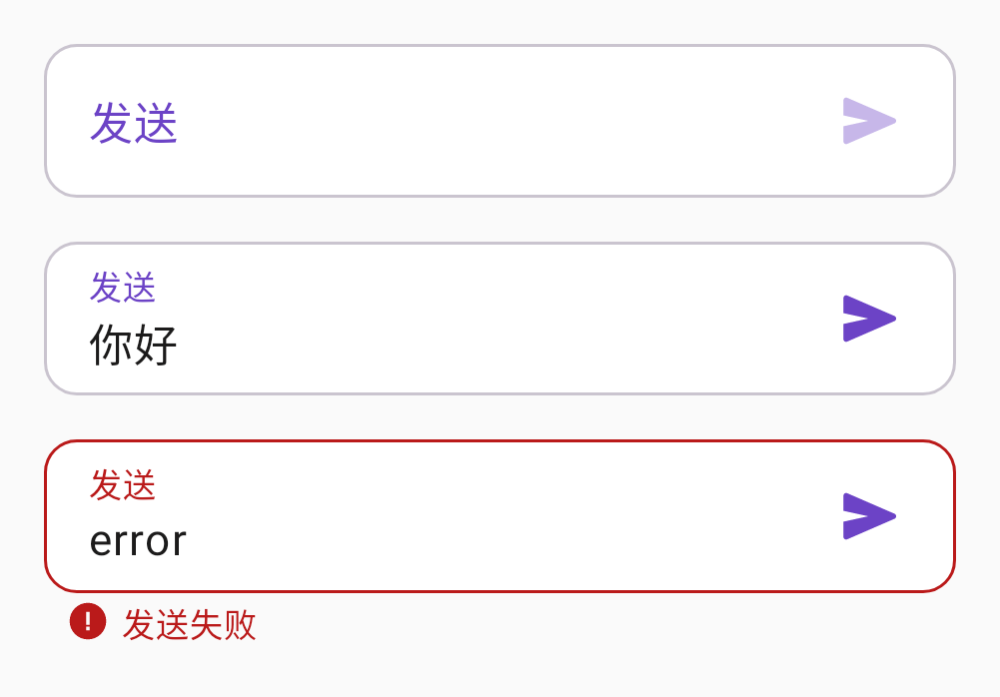
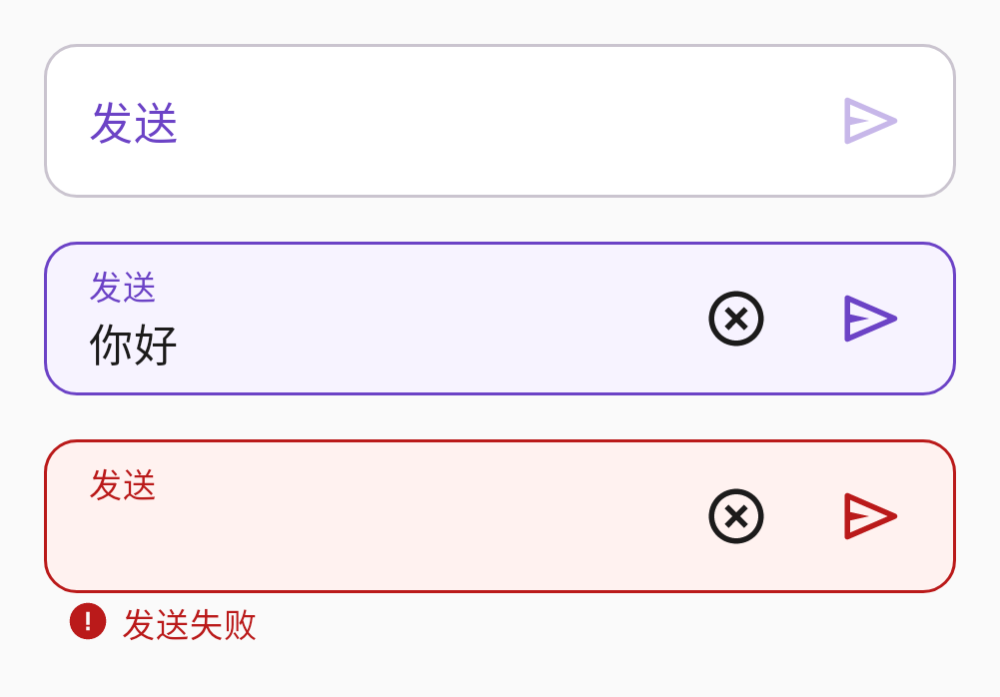
TextInput 清除与发送：聚焦显示 ×，描边发送，错误态红色

diff --git a/catalog/src/main/java/com/genev4/catalog/docs/DocsDemos.kt b/catalog/src/main/java/com/genev4/catalog/docs/DocsDemos.kt
@@ -8,6 +8,9 @@ import androidx.compose.foundation.layout.FlowRow
 import androidx.compose.foundation.layout.Row
 import androidx.compose.foundation.layout.WindowInsets
 import androidx.compose.foundation.background
+import androidx.compose.foundation.interaction.FocusInteraction
+import androidx.compose.foundation.interaction.Interaction
+import androidx.compose.foundation.interaction.MutableInteractionSource
 import androidx.compose.foundation.layout.fillMaxSize
 import androidx.compose.foundation.layout.fillMaxWidth
 import androidx.compose.foundation.layout.height
@@ -17,10 +20,15 @@ import androidx.compose.foundation.rememberScrollState
 import androidx.compose.foundation.text.input.rememberTextFieldState
 import androidx.compose.foundation.verticalScroll
 import androidx.compose.runtime.Composable
+import androidx.compose.runtime.remember
 import androidx.compose.ui.Alignment
 import androidx.compose.ui.Modifier
 import androidx.compose.ui.state.ToggleableState
 import androidx.compose.ui.unit.dp
+import kotlinx.coroutines.channels.BufferOverflow
+import kotlinx.coroutines.flow.Flow
+import kotlinx.coroutines.flow.MutableSharedFlow
+import kotlinx.coroutines.flow.asSharedFlow
 import com.genev4.AiInput
 import com.genev4.AiInputFileAttachment
 import com.genev4.AiInputLayout
@@ -280,8 +288,33 @@ fun TextFieldDocsDemo(modifier: Modifier = Modifier) {
     }
 }
 
+/** Seeds a focused interaction immediately so Paparazzi captures the Active / clear chrome. */
+@Composable
+private fun rememberDocsFocusedInteraction(): MutableInteractionSource =
+    remember {
+        object : MutableInteractionSource {
+            private val focus = FocusInteraction.Focus()
+            private val flow =
+                MutableSharedFlow<Interaction>(
+                    replay = 1,
+                    extraBufferCapacity = 16,
+                    onBufferOverflow = BufferOverflow.DROP_OLDEST,
+                ).also { it.tryEmit(focus) }
+
+            override val interactions: Flow<Interaction> = flow.asSharedFlow()
+
+            override suspend fun emit(interaction: Interaction) {
+                flow.emit(interaction)
+            }
+
+            override fun tryEmit(interaction: Interaction): Boolean = flow.tryEmit(interaction)
+        }
+    }
+
 @Composable
 fun TextInputDocsDemo(modifier: Modifier = Modifier) {
+    val focused = rememberDocsFocusedInteraction()
+    val focusedError = rememberDocsFocusedInteraction()
     Column(
         modifier = modifier.padding(16.dp).width(332.dp),
         verticalArrangement = Arrangement.spacedBy(16.dp),
@@ -298,14 +331,16 @@ fun TextInputDocsDemo(modifier: Modifier = Modifier) {
             value = "杭州",
             onValueChange = {},
             label = "城市",
+            interactionSource = focused,
             modifier = Modifier.fillMaxWidth(),
         )
         TextInput(
-            value = "error",
+            value = "",
             onValueChange = {},
             label = "姓名",
             isError = true,
             supportingText = "校验失败提示",
+            interactionSource = focusedError,
             modifier = Modifier.fillMaxWidth(),
         )
         TextInput(
@@ -365,6 +400,8 @@ fun TextAreaDocsDemo(modifier: Modifier = Modifier) {
 
 @Composable
 fun ActionInputDocsDemo(modifier: Modifier = Modifier) {
+    val focused = rememberDocsFocusedInteraction()
+    val focusedError = rememberDocsFocusedInteraction()
     Column(
         modifier = modifier.padding(16.dp).width(332.dp),
         verticalArrangement = Arrangement.spacedBy(16.dp),
@@ -381,15 +418,17 @@ fun ActionInputDocsDemo(modifier: Modifier = Modifier) {
             onValueChange = {},
             onAction = {},
             label = "发送",
+            interactionSource = focused,
             modifier = Modifier.fillMaxWidth(),
         )
         ActionInput(
-            value = "error",
+            value = "",
             onValueChange = {},
             onAction = {},
             label = "发送",
             isError = true,
             supportingText = "发送失败",
+            interactionSource = focusedError,
             modifier = Modifier.fillMaxWidth(),
         )
     }

diff --git a/library/src/commonMain/kotlin/com/genev4/TextInput.kt b/library/src/commonMain/kotlin/com/genev4/TextInput.kt
@@ -328,7 +328,9 @@ private fun GeneInput(
             hovered -> PaletteTokens.Primary80.copy(alpha = HoverOverlayAlpha)
             else -> Color.Transparent
         }
-    val iconTint = if (isError) scheme.error else scheme.onSurface
+    val clearTint = scheme.onSurface
+    val trailingTint = if (isError) scheme.error else scheme.onSurface
+    val actionTint = if (isError) scheme.error else scheme.primary
     val shape = TextInputShape
     val bodyLarge = MaterialTheme.typography.bodyLarge
     val bodySmall = MaterialTheme.typography.bodySmall
@@ -420,7 +422,7 @@ private fun GeneInput(
                         TrailingIcon(
                             icon = TextInputIcons.Cancel,
                             contentDescription = "Clear",
-                            tint = iconTint,
+                            tint = clearTint,
                             onClick = {
                                 onValueChange("")
                                 onClear?.invoke()
@@ -432,7 +434,7 @@ private fun GeneInput(
                         TrailingIcon(
                             icon = if (expanded) TextInputIcons.ArrowDropUp else TextInputIcons.ArrowDropDown,
                             contentDescription = "Dropdown",
-                            tint = iconTint,
+                            tint = trailingTint,
                             onClick = onDropdownClick,
                             enabled = enabled,
                         )
@@ -441,10 +443,11 @@ private fun GeneInput(
                         TrailingIcon(
                             icon = TextInputIcons.Send,
                             contentDescription = "Send",
-                            tint = scheme.primary,
+                            tint = actionTint,
                             onClick = onAction,
                             enabled = enabled && actionEnabled,
-                            dimmed = enabled && !actionEnabled,
+                            // Empty + unfocused stays muted; Active keeps full color like the spec.
+                            dimmed = enabled && !actionEnabled && !focused,
                             buttonSize = ActionButtonSize,
                         )
                     }
@@ -572,8 +575,8 @@ private object TextInputIcons {
     }
     val Send: ImageVector by lazy {
         icon(
-            "Filled.Send",
-            "M4.39827 3.60715C4.27259 3.55257 4.13702 3.52441 4 3.52441C3.44772 3.52441 3 3.97213 3 4.52441V10V10.0275L12.0737 12L3 13.9726V14V19.4756C3 19.6127 3.02816 19.7482 3.08273 19.8739C3.30269 20.3805 3.89168 20.6129 4.39827 20.3929L21.6154 12.9173C21.8479 12.8163 22.0334 12.6308 22.1344 12.3983C22.3543 11.8917 22.122 11.3027 21.6154 11.0828L4.39827 3.60715Z",
+            "Outlined.Send",
+            "M4.42627 3.52441C4.56329 3.52441 4.69886 3.55257 4.82454 3.60715L22.0416 11.0828C22.5482 11.3027 22.7806 11.8917 22.5606 12.3983C22.4597 12.6308 22.2742 12.8163 22.0416 12.9173L4.82454 20.3929C4.31795 20.6129 3.72896 20.3805 3.509 19.8739C3.45443 19.7482 3.42627 19.6127 3.42627 19.4756V14V10V4.52441C3.42627 3.97213 3.87398 3.52441 4.42627 3.52441ZM5.42627 13.5556L12.4263 12L5.42627 10.4445V6.04802L19.1313 12L5.42627 17.951V13.5556Z",
         )
     }
 }
